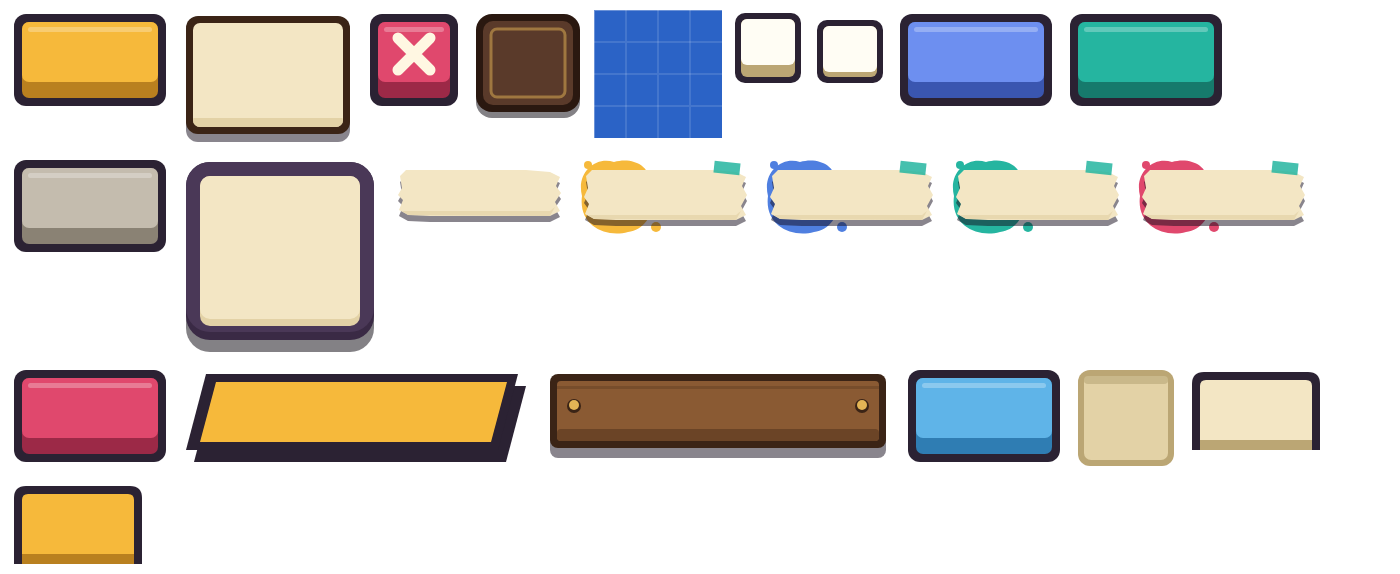
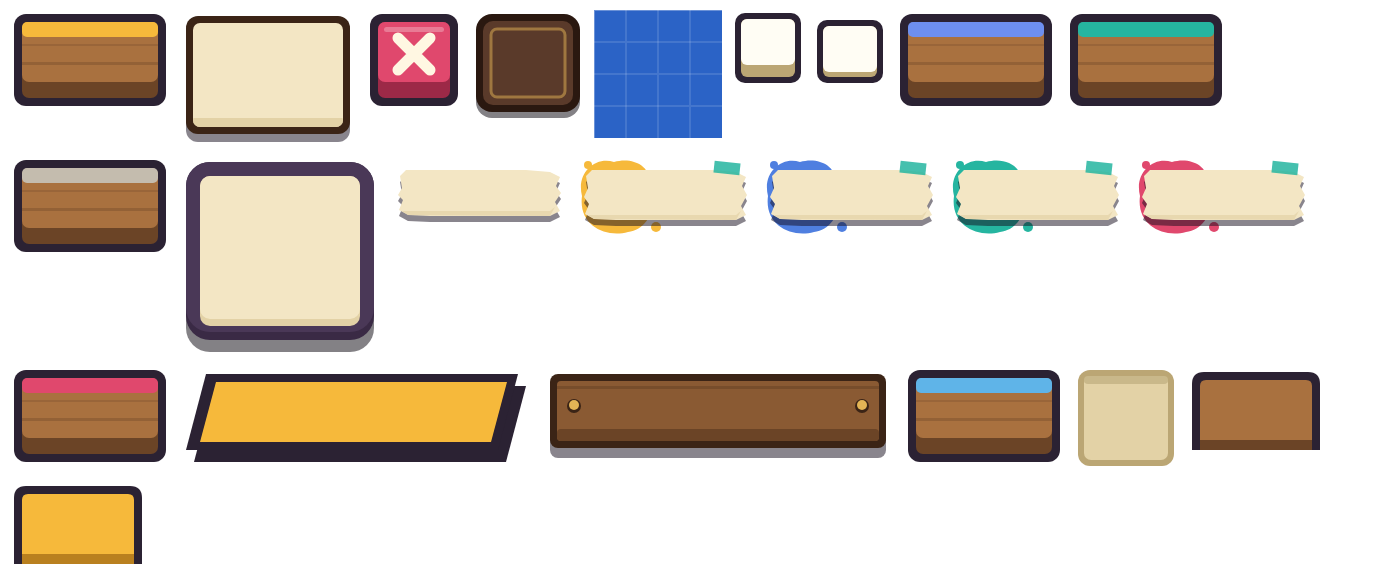
Turn the block buttons and tabs into wooden blocks with a band of paint in each button's colour and cream carved labels, after the owner's second reference set of MapleStory, Stardew Valley, Bloons and Peak. The bright candy faces had clashed with the timber town and the caves.

diff --git a/art/pd_ui_notebook.py b/art/pd_ui_notebook.py
@@ -34,7 +34,10 @@ def svg(kind):
     w, h = SIZE[kind]
     s = ""
     if kind in BTN:
-        s = block(w, h, 4, 0, *BTN[kind])
+        # round 2 (2026-11-12, the owner's second reference set: MapleStory, Stardew Valley, Bloons, Peak): a wooden block,
+        # the kind's colour is a band of paint across its top (the saturated faces read as candy, most of all in the caves)
+        s = block(w, h, 4, 0, "#A9713F", "#6B4426") + (f'<rect x="12" y="12" width="{w - 24}" height="15" rx="5" fill="{BTN[kind][0]}"/>'
+            f'<rect x="12" y="52" width="{w - 24}" height="3" fill="#6B4426" opacity="0.35"/><rect x="12" y="34" width="{w - 24}" height="2" fill="#6B4426" opacity="0.25"/>')
     elif kind in SPLAT:
         y0, y1 = 14, h - 16  # the paper's straight top and bottom in the stretched middle
         if SPLAT[kind]:
@@ -67,7 +70,7 @@ def svg(kind):
         s = (f'<rect x="4" y="4" width="96" height="96" rx="12" fill="{LINE}"/><rect x="10" y="10" width="84" height="84" rx="7" fill="{PAPER_D}"/>'
              f'<rect x="10" y="10" width="84" height="8" rx="4" fill="#C9B88A"/>')
     elif kind in ("tab", "tabOn"):
-        face, edge = ("#F6B93B", "#B9801F") if kind == "tabOn" else (PAPER, LINE)
+        face, edge = ("#F6B93B", "#B9801F") if kind == "tabOn" else ("#A9713F", "#6B4426")
         s = (f'<path d="M4 84 L4 18 Q4 6 16 6 L120 6 Q132 6 132 18 L132 84 Z" fill="{INK}"/>'
              f'<path d="M12 84 L12 20 Q12 14 18 14 L118 14 Q124 14 124 20 L124 84 Z" fill="{face}"/>'
              f'<rect x="12" y="74" width="112" height="10" fill="{edge}"/>')
